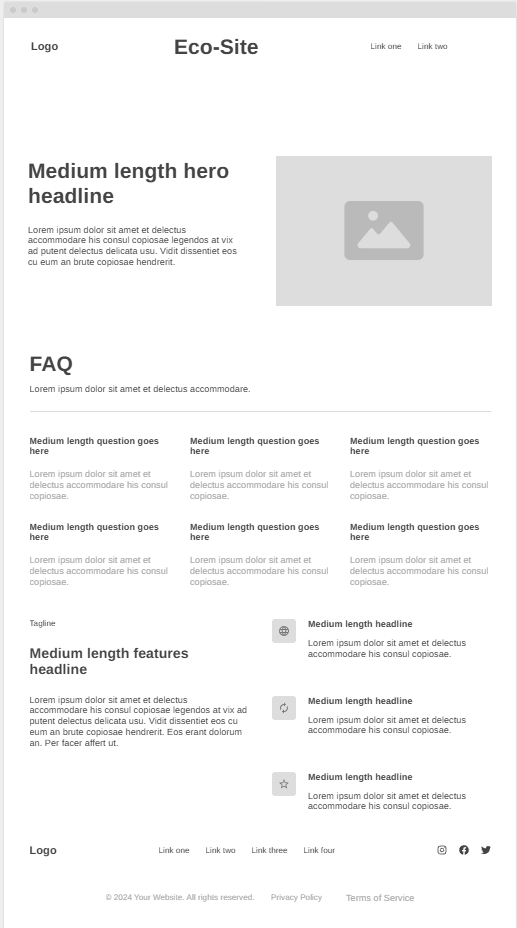
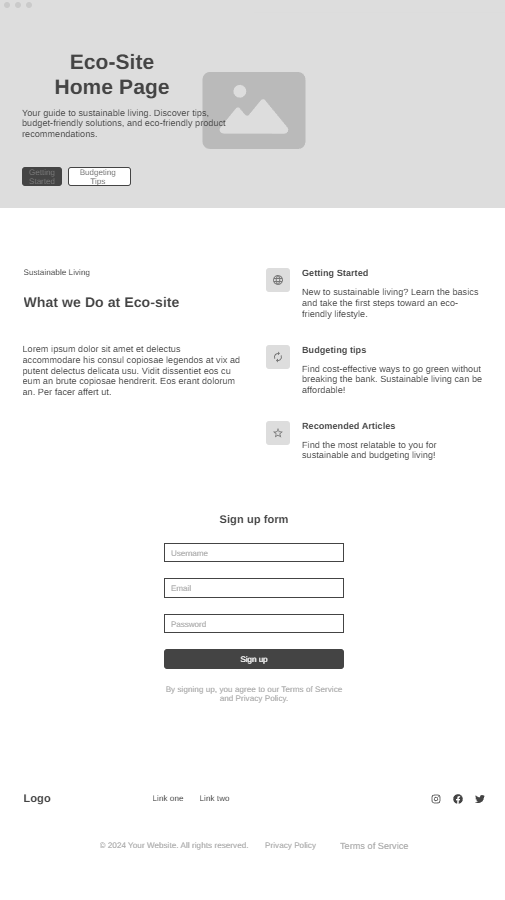
css file added to site

diff --git a/Eco-Site/index.html b/Eco-Site/index.html
@@ -1,50 +1,89 @@
 <!DOCTYPE html>
 <html lang="en">
-<head>
-    <meta charset="UTF-8">
-    <meta name="viewport" content="width=device-width, initial-scale=1.0">
+  <head>
+    <link rel="stylesheet" href="styles/styles.css" />
+    <link rel="icon" href="images/logo.png" />
+    <meta charset="UTF-8" />
+    <meta name="viewport" content="width=device-width, initial-scale=1.0" />
     <title>Eco-Site - Home</title>
-    <link rel="stylesheet" href="styles/styles.css">
-
-</head>
-<body>
-    <!-- Header with forest background -->
+  </head>
+  <body>
     <header>
-        <div class="slide-menu">
-            <span></span>
-            <span></span>
-            <span></span>
-            Slide Menu
-        </div>
-        <h1 class="website-header">Eco-Site</h1>
-        <a href="#" class="learn-more-btn">Learn More</a>
+      <h1 class="website-header">Eco-Site Home Page</h1>
+      <p>
+        Your guide to sustainable living. Discover tips, budget-friendly
+        solutions, and eco-friendly product recommendations.
+      </p>
+      <nav>
+        <a href="getting-started.html" class="nav-button">Getting Started</a>
+        <a href="budgeting-tips.html" class="nav-button">Budgeting Tips</a>
+      </nav>
     </header>
-    
 
     <main>
-        <h1>Welcome to Eco-Site</h1>
-        <p>Your guide to sustainable living. Discover tips, budget-friendly solutions, and eco-friendly product recommendations.</p>
-        
-        <section class="highlights">
-            <div class="highlight">
-                <h2><a href="getting-started.html">Getting Started</a></h2>
-                <p>New to sustainable living? Learn the basics and take the first steps toward an eco-friendly lifestyle.</p>
-            </div>
-            <div class="highlight">
-                <h2><a href="budget-tips.html">Budget Tips</a></h2>
-                <p>Find cost-effective ways to go green without breaking the bank. Sustainable living can be affordable!</p>
-            </div>
-        </section>
+      <section class="about">
+        <h2>What we do at Eco-Site</h2>
+        <p>
+          At Eco-Site, we are dedicated to promoting sustainable living by
+          providing practical tips and resources. Whether you're new to the
+          concept of sustainability or looking for ways to reduce your
+          environmental footprint, we offer insights on eco-friendly practices,
+          affordable green products, and responsible consumption. Our goal is to
+          help individuals make informed choices that benefit both the planet
+          and their wallets.
+        </p>
+      </section>
+
+      <section class="highlights">
+        <div class="highlight">
+          <h2><a href="getting-started.html">Getting Started</a></h2>
+          <p>
+            New to sustainable living? Learn the basics and take the first steps
+            toward an eco-friendly lifestyle.
+          </p>
+        </div>
+        <div class="highlight">
+          <h2><a href="budget-tips.html">Budgeting Tips</a></h2>
+          <p>
+            Find cost-effective ways to go green without breaking the bank.
+            Sustainable living can be affordable!
+          </p>
+        </div>
+        <div class="highlight">
+          <h2>Recommended Articles</h2>
+          <p>
+            Find the most relatable articles for sustainable and budget-friendly
+            living!
+          </p>
+        </div>
+      </section>
+
+      <!-- Signup Form -->
+      <section class="signup">
+        <h2>Sign up form</h2>
+        <form>
+          <input type="text" placeholder="Username" required />
+          <input type="email" placeholder="Email" required />
+          <input type="password" placeholder="Password" required />
+          <button type="submit">Sign up</button>
+        </form>
+        <p>
+          By signing up, you agree to our <a href="#">Terms of Service</a> and
+          <a href="#">Privacy Policy</a>.
+        </p>
+      </section>
     </main>
-    
 
     <footer>
-        <div class="footer-logo">Logo</div>
-        <nav class="footer-nav">
-            <a href="getting-started.html">Getting Started</a>
-            <a href="budget-tips.html">Budget Tips</a>
-        </nav>
-        <p>&copy; 2024 Christopher Savage. All rights reserved.</p>
+      <div><img class="logo" src="images/logo.png" alt="Eco-Site Logo" /></div>
+      <nav class="footer-nav">
+        <a href="getting-started.html" class="nav-button">Getting Started</a>
+        <a href="budgeting-tips.html" class="nav-button">Budgeting Tips</a>
+      </nav>
+      <p>
+        &copy; 2024 Your Website. All rights reserved.
+        <a href="#">Privacy Policy</a> | <a href="#">Terms of Service</a>
+      </p>
     </footer>
-</body>
+  </body>
 </html>

diff --git a/Eco-Site/styles/styles.css b/Eco-Site/styles/styles.css
@@ -1,6 +1,115 @@
-.img {
-    width: 80px;
-    padding-left: 20px;
-    padding-top: 6px;
-    box-shadow: 0 4px 6px rgba(0, 0, 0, 0.1);
+/* Global Styles */
+body {
+    font-family: 'Open Sans', sans-serif;
+    margin: 0;
+    padding: 0;
+    color: #333;
+    background-color: #f9f9f9;
+}
+
+h1, h2 {
+    font-family: 'Montserrat', sans-serif;
+    color: #2d6a4f;
+}
+
+header {
+    background-image: url('../images/forest.jpg');
+    background-size: cover;
+    background-position: center;
+    color: white;
+    text-align: center;
+    padding: 100px 0;
+    position: relative;
+    height: 400px;
+}
+
+
+.website-header {
+    font-size: 3rem;
+}
+
+nav a {
+    color: white;
+    margin: 0 15px;
+    text-decoration: none;
+    font-weight: bold;
+}
+
+
+main {
+    padding: 60px 20px;
+    display: grid;
+    grid-template-columns: 1fr 1fr;
+    gap: 40px;
+}
+
+.highlights {
+    display: flex;
+    flex-direction: column;
+    gap: 20px;
+}
+
+.highlight h2 a {
+    color: #2d6a4f;
+    text-decoration: none;
+}
+
+.signup {
+    display: flex;
+    flex-direction: column;
+    align-items: center;
+    justify-content: center;
+    text-align: center;
+    margin-top: 40px;
+}
+
+form {
+    display: flex;
+    flex-direction: column;
+    width: 100%;
+    max-width: 600px; 
+}
+
+input, button {
+    margin-bottom: 10px;
+    padding: 10px;
+    font-size: 16px;
+    width: 100%;
+}
+
+
+button {
+    background-color: #2d6a4f;
+    color: white;
+    border: none;
+    cursor: pointer;
+}
+
+footer {
+    background-color: #2d6a4f;
+    color: white;
+    text-align: center;
+    padding: 20px;
+}
+
+footer a {
+    color: white;
+    margin: 0 10px;
+    text-decoration: none;
+}
+
+.logo {
+    height: 40px;
+    margin-bottom: 10px;
+}
+
+/* Responsive Design */
+@media (max-width: 768px) {
+    main {
+        grid-template-columns: 1fr;
+    }
+
+    header {
+        padding: 40px 10px;
+    }
 }

diff --git a/Eco-Site/budgeting-tips.html b/Eco-Site/budgeting-tips.html
@@ -8,7 +8,7 @@
 </head>
 <body>
     <header>
-        <div class="logo">Logo</div>
+        <img class="logo" src="images/logo.png">
         <nav>
             <a href="index.html">Home Page</a>
             <a href="getting-started.html">Getting Started</a>
@@ -75,7 +75,7 @@
         </section>
     </main>
     <footer>
-        <div>Logo</div>
+        <div><img class="logo" src="images/logo.png"></div>
         <nav>
             <a href="index.html">Home Page</a>
             <a href="getting-started.html">Getting Started</a>
